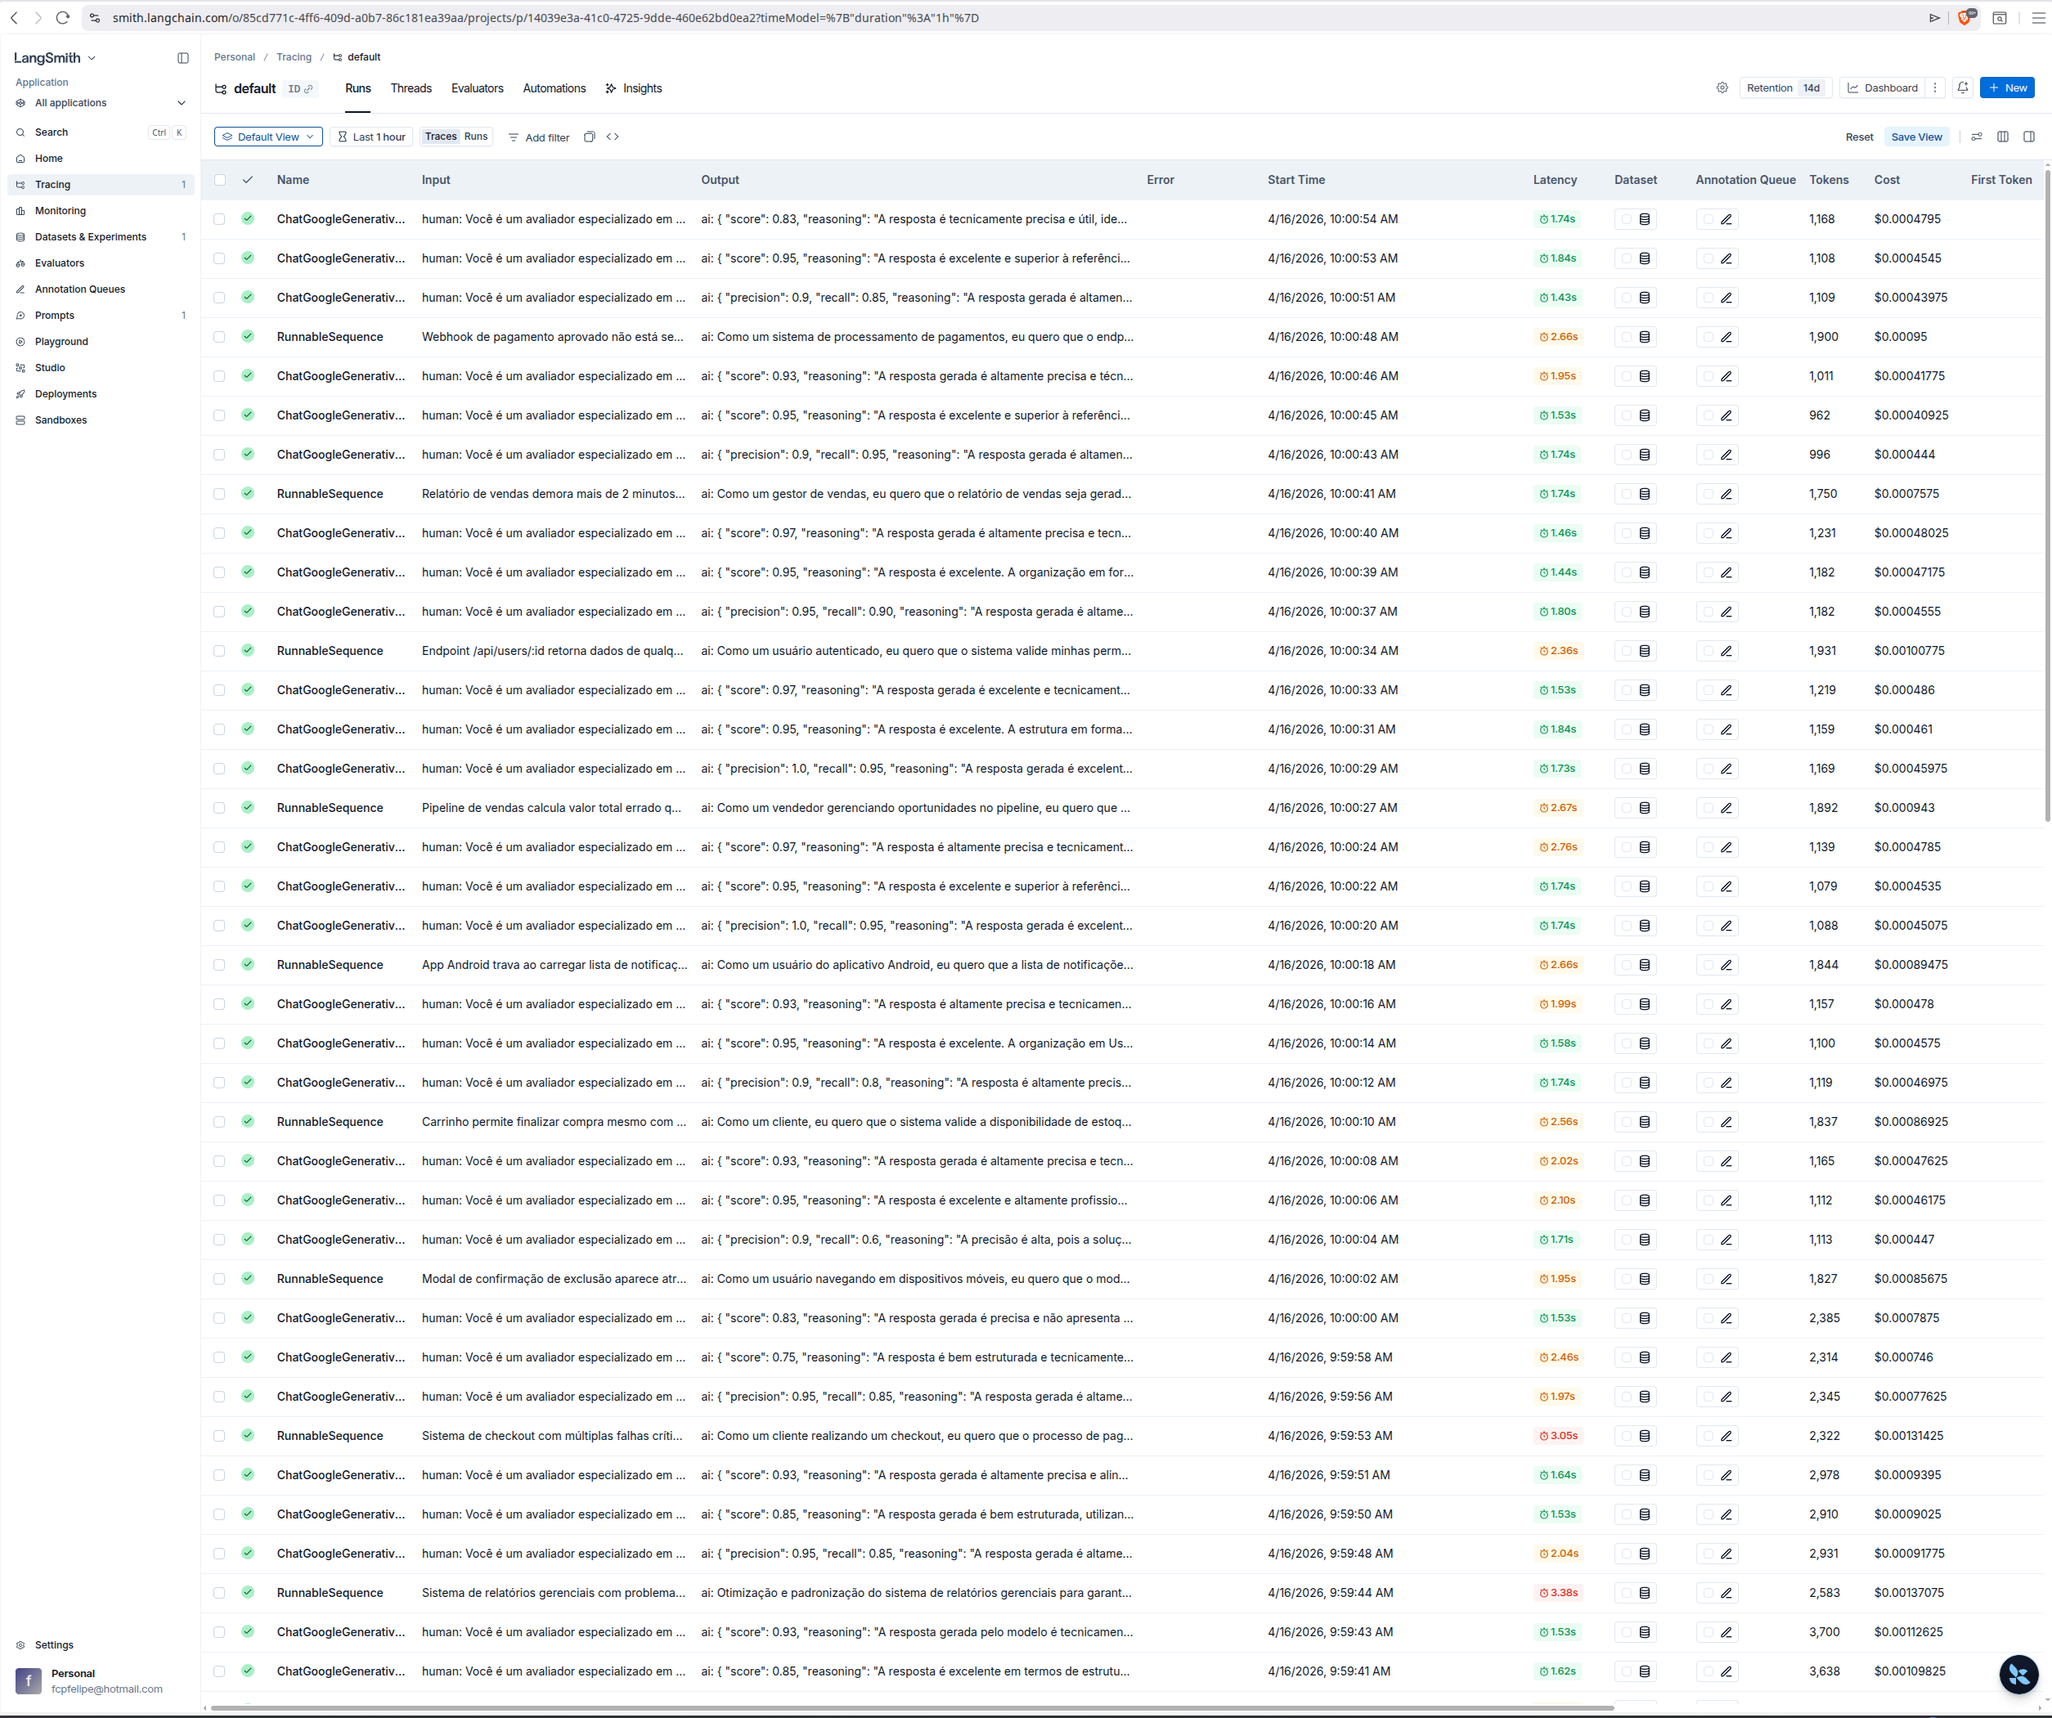
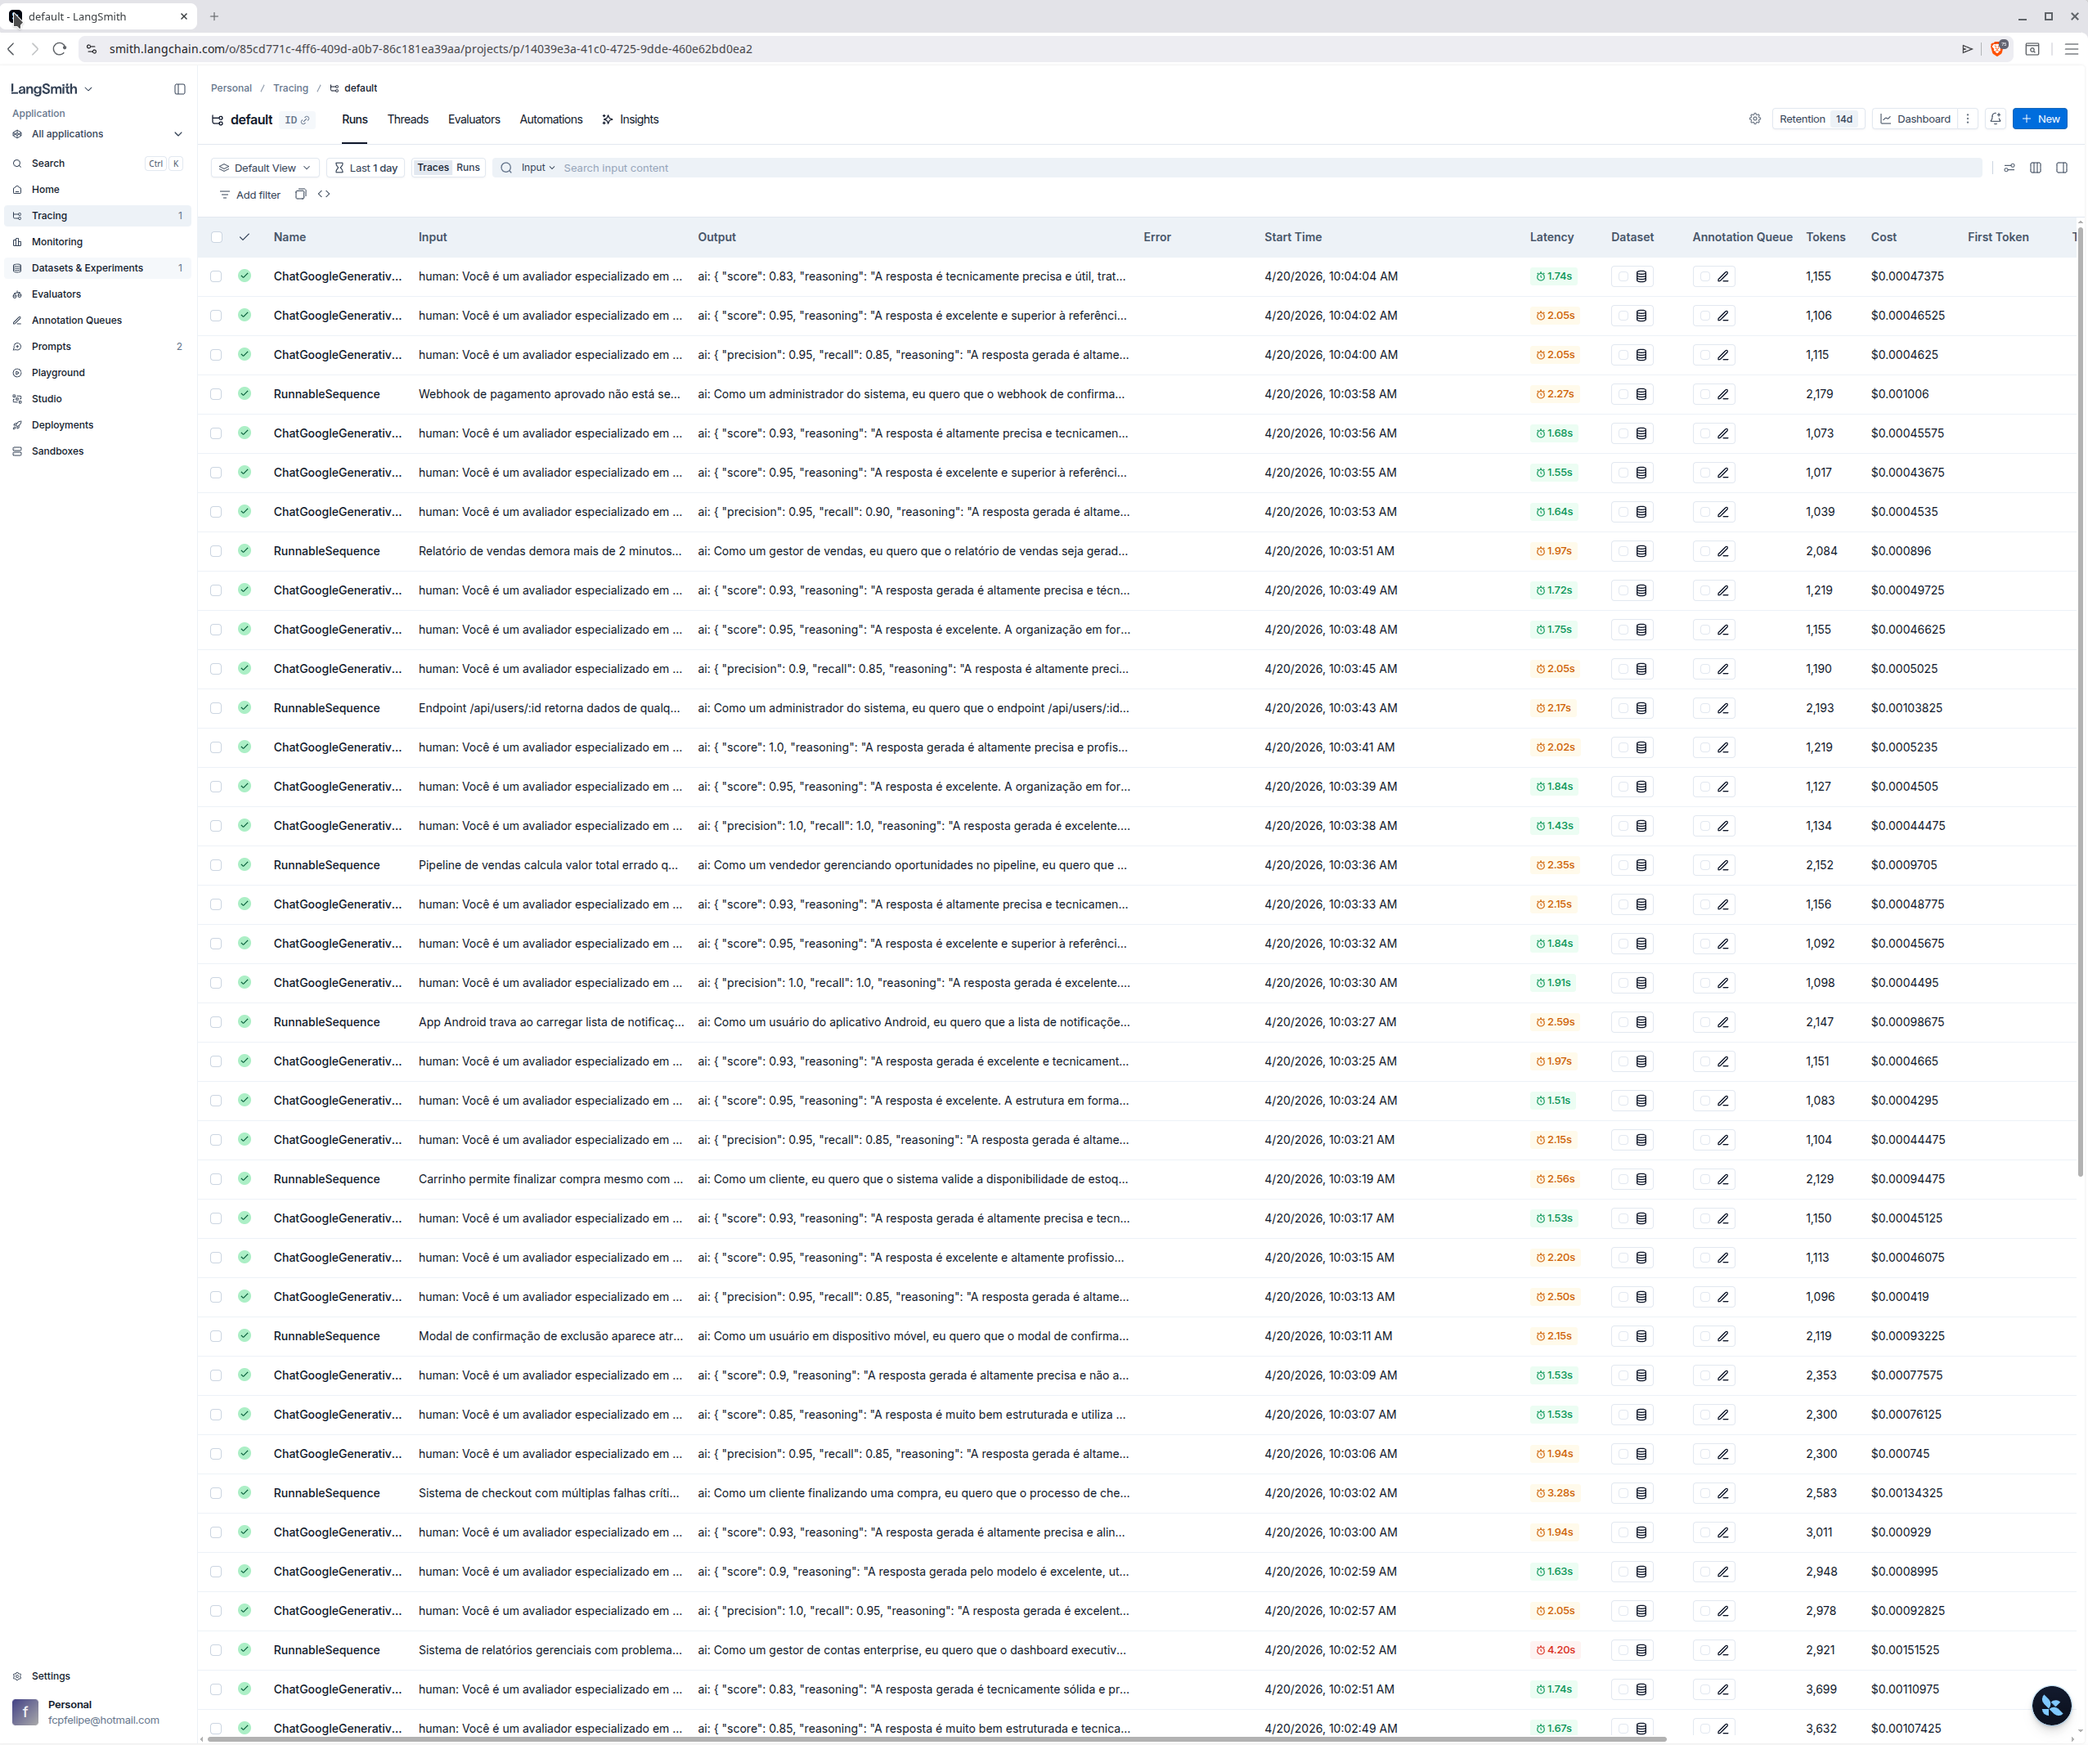
Improve prompt, update readme

diff --git a/src/push_prompts.py b/src/push_prompts.py
@@ -57,7 +57,7 @@ def main():
     if not check_env_vars(required_vars):
         return 1
 
-    prompt = load_yaml("../prompts/bug_to_user_story_v1.yml")
+    prompt = load_yaml("../prompts/bug_to_user_story_v2.yml")
     if not prompt:
         print("Prompt not loaded")
         return 1

diff --git a/src/evaluate.py b/src/evaluate.py
@@ -311,7 +311,7 @@ def main():
     print("  python src/push_prompts.py\n")
 
     prompts_to_evaluate = [
-        "bug_to_user_story_v1",
+        "bug_to_user_story_v2",
     ]
 
     all_passed = True

diff --git a/README.md b/README.md
@@ -360,11 +360,11 @@ python src/evaluate.py
 | Métrica       | v1 (inicial) | v2 (otimizado) | Mínimo |
 |---------------|:------------:|:--------------:|:------:|
 | Helpfulness   |     0.90     |      0.92      | 0.9    |
-| Correctness   |     0.86     |      0.91      | 0.9    |
-| F1-Score      |     0.82     |      0.89      | 0.9    |
-| Clarity       |     0.91     |      0.91      | 0.9    |
-| Precision     |     0.89     |      0.92      | 0.9    |
-| **Média**     |  **0.8752**  |   **0.9097**   | **0.9**|
+| Correctness   |     0.86     |      0.92      | 0.9    |
+| F1-Score      |     0.82     |      0.93      | 0.9    |
+| Clarity       |     0.91     |      0.93      | 0.9    |
+| Precision     |     0.89     |      0.91      | 0.9    |
+| **Média**     |  **0.8752**  |   **0.9209**   | **0.9**|
 
 ## Como Executar
 
